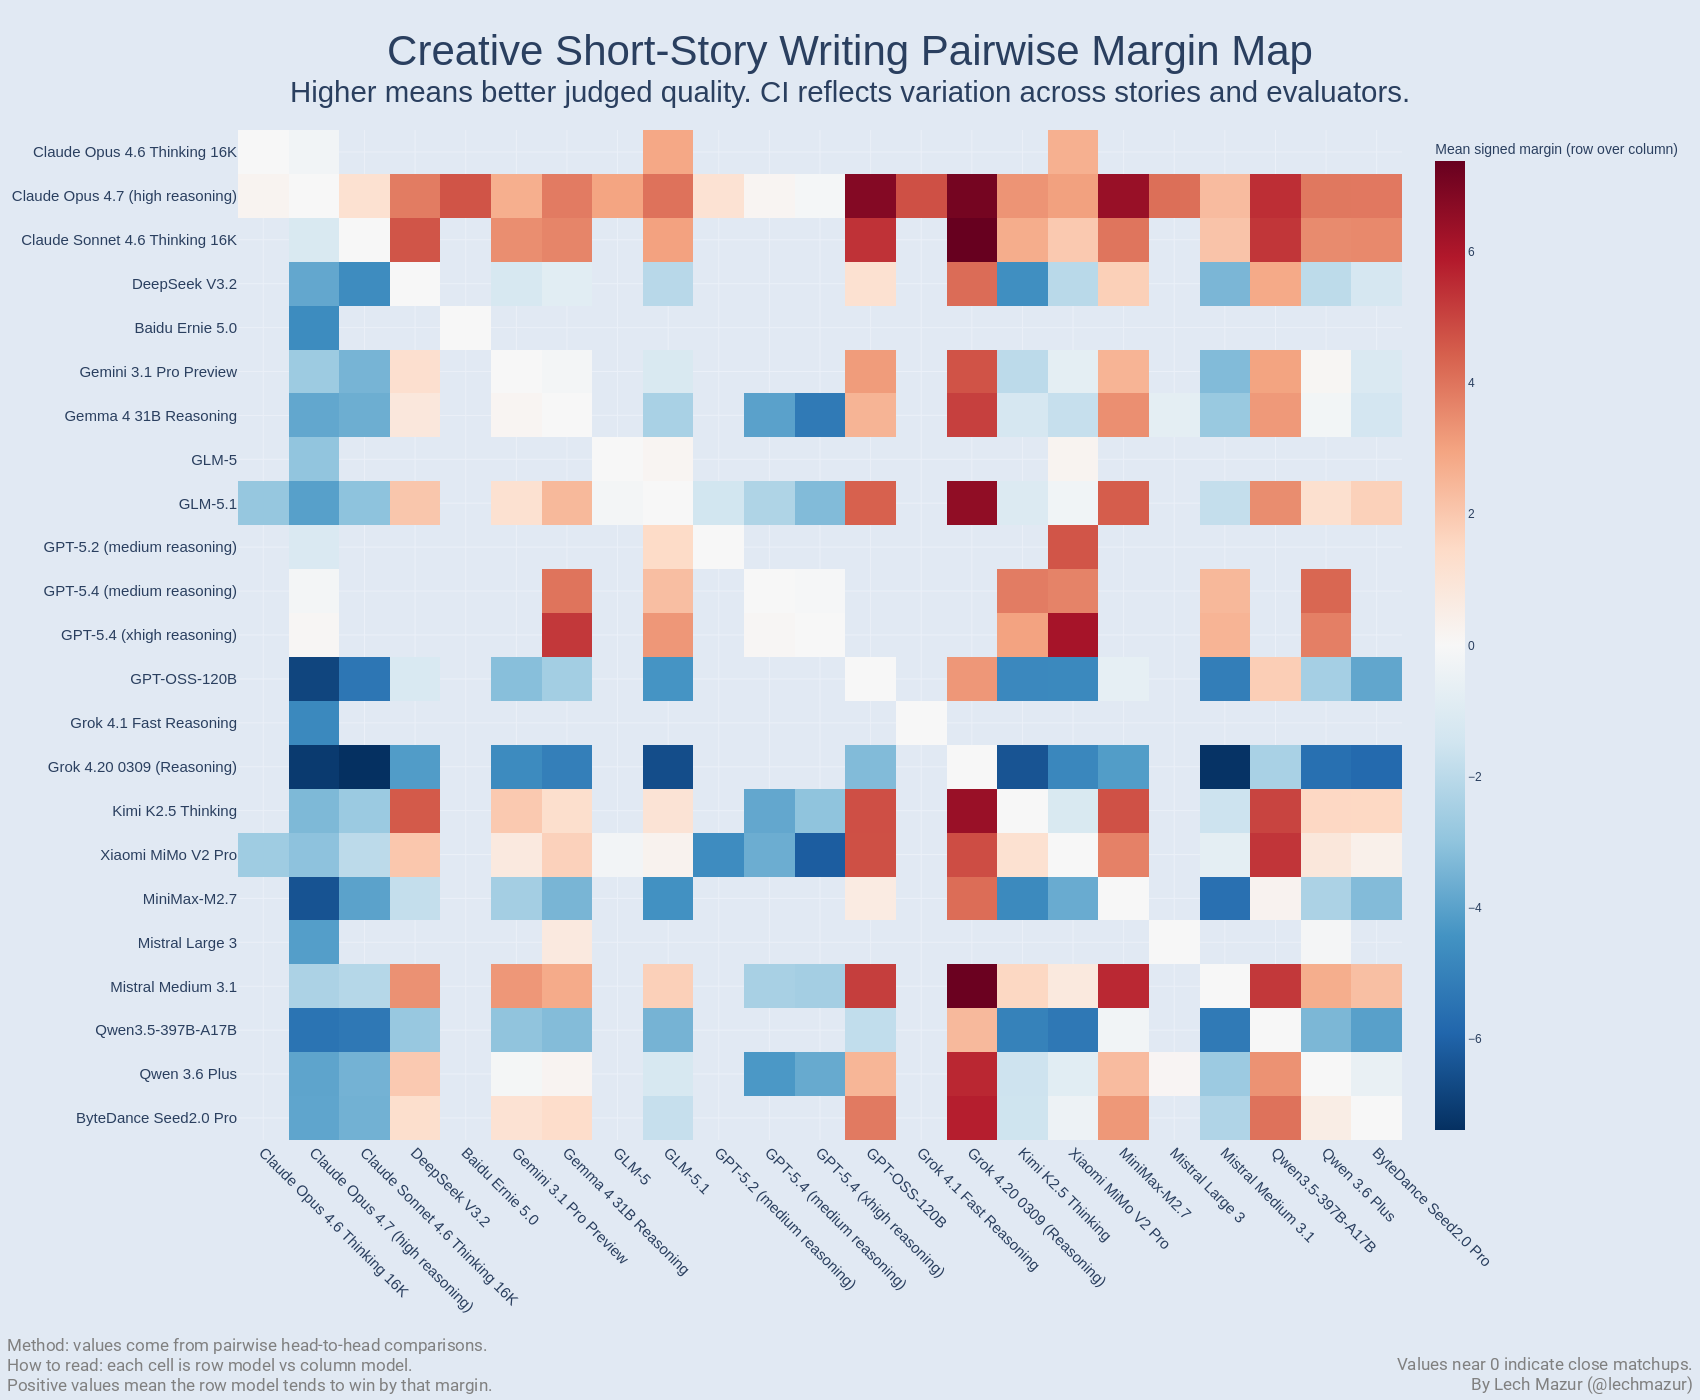
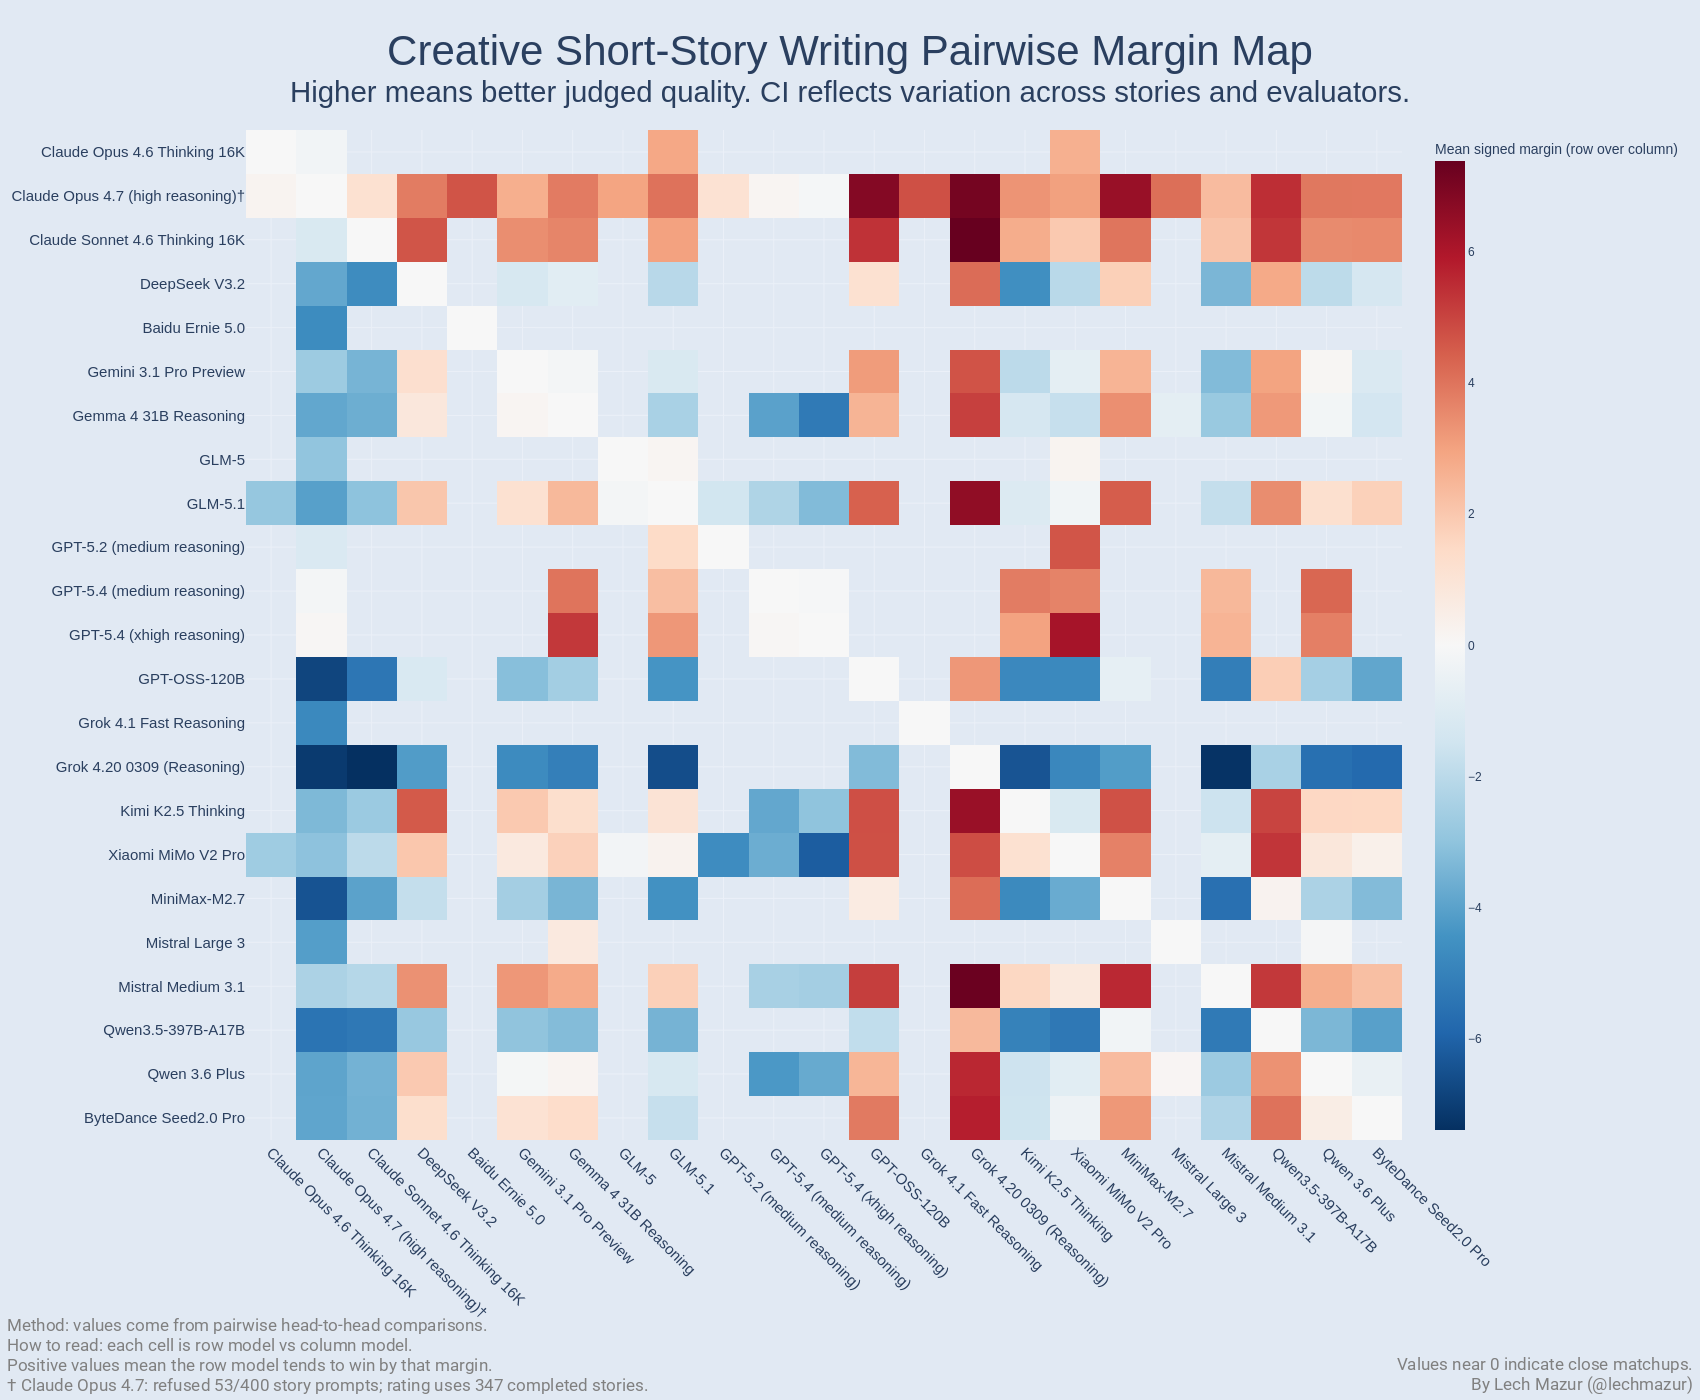
Disclose Opus 4.7 generation refusals

diff --git a/inter_llm_model_disclosures.py b/inter_llm_model_disclosures.py
@@ -1,0 +1,101 @@
+"""Public disclosure markers for inter-LLM comparison reports."""
+from __future__ import annotations
+
+from dataclasses import dataclass
+from typing import Iterable
+
+
+@dataclass(frozen=True)
+class ModelDisclosure:
+    model_id: str
+    public_name: str
+    marker: str
+    attempted_stories: int
+    completed_stories: int
+    refused_stories: int
+    comparison_pair_story_rows: int
+    comparison_unique_story_indices: int
+    note: str
+
+    @property
+    def refusal_rate(self) -> float:
+        assert self.attempted_stories > 0
+        return float(self.refused_stories / self.attempted_stories)
+
+    def markdown_note(self) -> str:
+        return (
+            f"{self.marker} `{self.model_id}`: {self.note} "
+            f"Generation sidecars show {self.refused_stories}/{self.attempted_stories} "
+            f"story prompts refused ({self.refusal_rate:.1%}); "
+            f"{self.completed_stories} story outputs were available. "
+            "Comparison prompts and ratings use completed stories only "
+            f"({self.comparison_pair_story_rows} pair-story rows, "
+            f"{self.comparison_unique_story_indices} distinct story indices in the current comparison scope). "
+            "No score was imputed for the refused prompts, so this is a coverage caveat rather than a direct rating penalty."
+        )
+
+    def chart_note(self) -> str:
+        return (
+            f"{self.marker} {self.public_name}: refused "
+            f"{self.refused_stories}/{self.attempted_stories} story prompts; "
+            f"rating uses {self.completed_stories} completed stories."
+        )
+
+
+OPUS_47_REFUSAL_DISCLOSURE = ModelDisclosure(
+    model_id="claude-opus-4-7-adaptive",
+    public_name="Claude Opus 4.7",
+    marker="†",
+    attempted_stories=400,
+    completed_stories=347,
+    refused_stories=53,
+    comparison_pair_story_rows=480,
+    comparison_unique_story_indices=265,
+    note="Claude Opus 4.7 refused a subset of creative-writing generation prompts in this run.",
+)
+
+MODEL_DISCLOSURES: dict[str, ModelDisclosure] = {
+    OPUS_47_REFUSAL_DISCLOSURE.model_id: OPUS_47_REFUSAL_DISCLOSURE,
+}
+
+
+def disclosure_for_model(model_id: str) -> ModelDisclosure | None:
+    return MODEL_DISCLOSURES.get(str(model_id))
+
+
+def label_with_disclosure_marker(model_id: str, label: str) -> str:
+    disclosure = disclosure_for_model(model_id)
+    if disclosure is None:
+        return str(label)
+    return f"{label}{disclosure.marker}"
+
+
+def markdown_model_label(model_id: str) -> str:
+    return label_with_disclosure_marker(model_id, str(model_id))
+
+
+def disclosure_markdown_notes(model_ids: Iterable[str]) -> list[str]:
+    present = {
+        str(model_id)
+        for model_id in model_ids
+        if disclosure_for_model(str(model_id)) is not None
+    }
+    return [
+        disclosure.markdown_note()
+        for model_id, disclosure in MODEL_DISCLOSURES.items()
+        if model_id in present
+    ]
+
+
+def disclosure_chart_note(model_ids: Iterable[str]) -> str:
+    present = {
+        str(model_id)
+        for model_id in model_ids
+        if disclosure_for_model(str(model_id)) is not None
+    }
+    notes = [
+        disclosure.chart_note()
+        for model_id, disclosure in MODEL_DISCLOSURES.items()
+        if model_id in present
+    ]
+    return "\n".join(notes)

diff --git a/docs/overview.md b/docs/overview.md
@@ -30,6 +30,7 @@ Key docs:
 - New story directories do not automatically enter canonical comparison. Refresh the active roster from `/mnt/r/writing2-data/stories_wc/*` before `--run-all`; the exclusion file prevents models from being re-added on the next roster rebuild, while the active roster controls the current run scope.
 - Word-count readiness is not just “no outliers”: check both `vis_word_counts_script.py` output and `data/word_count_issues_wc.txt` for formatting anomalies before scheduling comparison runs.
 - Incomplete models can still be compared if overlap supports the chosen `--n`, but that should be an explicit policy exception and later called out in reporting.
+- Model-specific generation-coverage caveats that affect public interpretation are centralized in `inter_llm_model_disclosures.py` and rendered as dagger markers plus footnotes in comparison leaderboards and charts. The current disclosure is Claude Opus 4.7 refusing 53 of 400 story-generation prompts; comparison tasks use completed stories only.
 - Recommended new-model intake order is: QC, roster refresh, anchor pilot, optional new-vs-new pilot, then broader/canonical expansion.
 - Pairwise comparison runner supports both single and multi-evaluator execution:
   - with no evaluator flags, comparison scripts default to the versioned roster in `inter_llm_comparison_full_evaluators.txt`
@@ -78,7 +79,7 @@ Key docs:
 - Rating diagnostics include BT-vs-Thurstone rank agreement, sigma stability, and transitivity cycle-rate checks.
 - Bootstrap uncertainty in comparison aggregation is hierarchical by default (stories + evaluators), with a story-only fallback flag.
 - Evaluator side-A bias correction on signed margins is enabled by default during aggregation (toggleable).
-- `plot_inter_llm_comparison_charts.py` renders large Plotly comparison charts, including shaded uncertainty rectangles for rating CIs, shared model-brand logos on rating charts where `/mnt/r/benchmark_utils` has assets, and a pairwise margin heatmap.
+- `plot_inter_llm_comparison_charts.py` renders large Plotly comparison charts, including shaded uncertainty rectangles for rating CIs, shared model-brand logos on rating charts where `/mnt/r/benchmark_utils` has assets, model disclosure markers from `inter_llm_model_disclosures.py`, and a pairwise margin heatmap.
 - Use `run_inter_llm_comparison_batch.py` for:
   - roster initialization from `/mnt/r/writing2-data/stories_wc/*`
   - roster initialization with exclusions via `--exclude-models` / `--exclude-models-file`

diff --git a/PIPELINES.md b/PIPELINES.md
@@ -460,6 +460,7 @@ Recommended new-model intake policy:
   - `inter_llm_comparison_story_excluded_models.txt` so the next roster rebuild does not re-add it
   - the current active roster file so current runs also exclude it
 - Incomplete models may still be compared if overlap supports the chosen `--n`, but that should be an explicit exception and later reporting should call the model incomplete.
+- If an incomplete model stays in a public scope, add or update a disclosure in `inter_llm_model_disclosures.py` before regenerating `reports/inter_llm_comparison_score_leaderboard.md` and `images/inter_llm_comparison_*`.
 - For newly added models, prefer staged coverage: anchor pilot first, optional new-vs-new pass second, then broader expansion. Do not start with a full `--run-all` sweep unless you intentionally want that cost.
 - For manually chosen leaderboard gaps, prefer `run_inter_llm_comparison_batch.py --pairs-file <path>` so only those exact unordered pairs run. Pair files contain one pair per non-comment line, separated by a comma or whitespace.
 - Preferred cost control is “full evaluator roster + `--evaluators-per-pair`” rather than locking the whole run to one fixed small judge panel.
@@ -552,6 +553,7 @@ Notes:
 - Pair stats are computed per unordered pair and story index (aggregated across evaluators).
 - Global ranking is margin-primary (Thurstone-style on signed margins). This is the canonical public quality rating.
 - BT is retained only as a reference/diagnostic column.
+- Model-specific generation-coverage caveats that materially affect interpretation are rendered from `inter_llm_model_disclosures.py` as dagger markers in the leaderboard and comparison charts. Keep this file in sync with any audited refusal/incompletion exception that remains in a public comparison scope.
 - BT outcomes are tie-aware from signed margins using `--tie-epsilon` (default `0.5`).
 - Ranking diagnostics include Thurstone-vs-BT rank correlation (Spearman/Kendall) and sigma bootstrap stability (mean/std/CV).
 - Ranking diagnostics also include triad-cycle transitivity checks (`triads_decisive`, `cycle_count`, `cycle_rate`, `weighted_cycle_rate`).

diff --git a/PROJECT_DOCUMENTATION.md b/PROJECT_DOCUMENTATION.md
@@ -538,6 +538,8 @@ Public model quality ratings should be based on the inter-LLM comparison stack:
 - direct evidence: pair-stat rows and pairwise margin heatmap,
 - reference only: Bradley-Terry columns and charts.
 
+Model-specific generation-coverage caveats that affect interpretation should be represented as report-time disclosures, not hidden in prose or patched into scores. `inter_llm_model_disclosures.py` owns those disclosure markers and footnotes. The current public scope marks `claude-opus-4-7-adaptive` because Claude Opus 4.7 refused 53 of 400 story-generation prompts; its comparisons use completed stories only.
+
 Absolute 0-10 rubric means, normalized absolute-score leaderboards, question-breakdown charts, and old grader-vs-model heatmaps are archived diagnostics. The previous absolute-rating README surface and its old README-linked chart PNGs are archived under `archive/absolute_ratings_v4_2026_04_19/`.
 
 ### Question and weight adjustments
@@ -1203,6 +1205,7 @@ Current verified behavior:
   - rating charts use per-model shaded CI rectangles (95% CI) behind bars
   - model display names and family colors follow the server-backed `model_info.py` adapter
   - rating charts embed small model-brand logos from `/mnt/r/benchmark_utils` when the shared brand registry resolves a logo for the plotted model/category
+  - model-specific disclosure markers from `inter_llm_model_disclosures.py` are applied to comparison leaderboard rows, rating-chart labels, and heatmap labels
   - emits large Plotly exports suitable for report/inspection workflows
   - supports `--include-suppressed` to include models otherwise hidden by chart suppression policy
 
